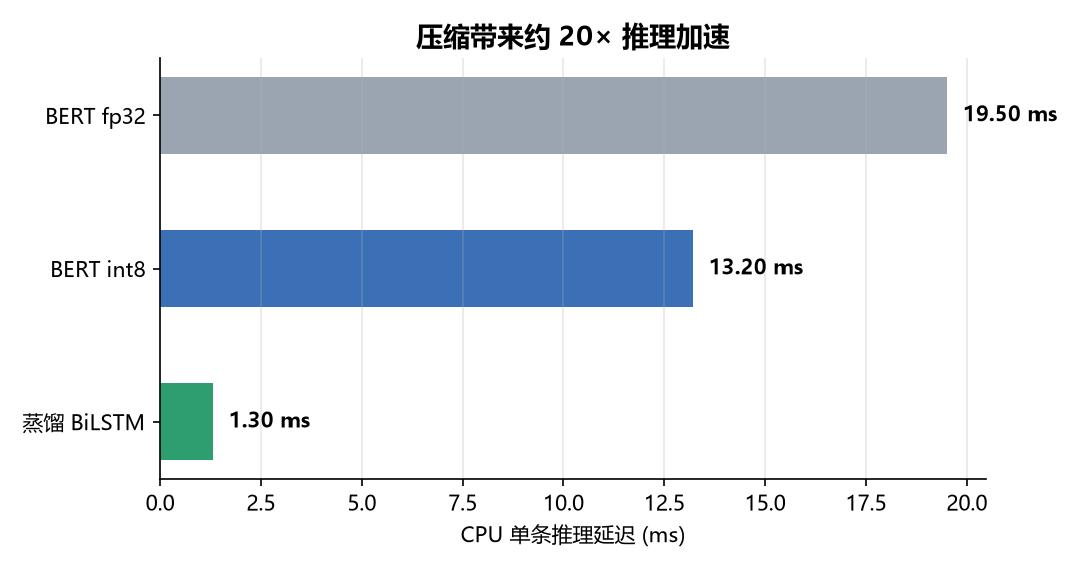
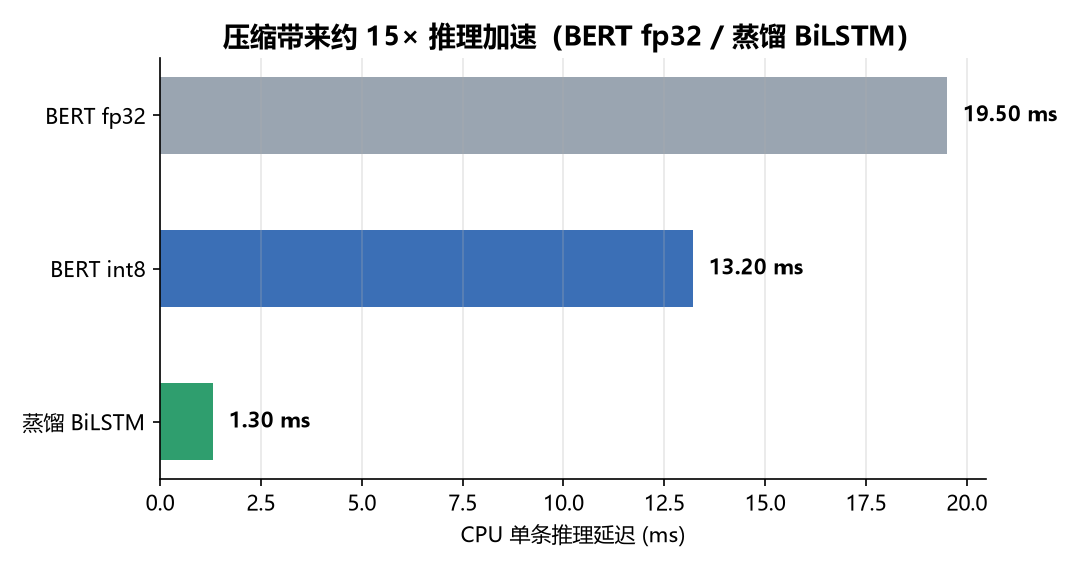
fix(charts): 延迟图加速倍数按数据实算（15×）— 修正硬编码"约20×"与自身数据矛盾
第三方数据审计发现：延迟图标题"约 20×"与图中数据 19.50/1.30=15× 自相矛盾。
改为由 LATENCY 数据动态计算 speedup，防止未来数据更新再漂移。
阶梯图/混淆矩阵数据核对无误（v1.3.1 实测口径，README 已标注 v1 渲染）。

Changed region(s): [[0.1833, 0.0298, 0.8556, 0.0895]]

diff --git a/scripts/make_charts.py b/scripts/make_charts.py
@@ -76,8 +76,9 @@ def latency_chart():
     for b, v in zip(bars, LATENCY["ms"][::-1]):
         ax.text(v + 0.4, b.get_y() + b.get_height() / 2, f"{v:.2f} ms",
                 va="center", fontsize=10, fontweight="bold")
+    speedup = LATENCY["ms"][0] / LATENCY["ms"][-1]
     ax.set_xlabel("CPU 单条推理延迟 (ms)")
-    ax.set_title("压缩带来约 20× 推理加速", fontsize=13, fontweight="bold")
+    ax.set_title(f"压缩带来约 {speedup:.0f}× 推理加速（BERT fp32 / 蒸馏 BiLSTM）", fontsize=13, fontweight="bold")
     ax.spines[["top", "right"]].set_visible(False)
     ax.grid(axis="x", alpha=0.3)
     fig.tight_layout()
